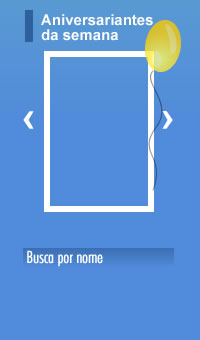
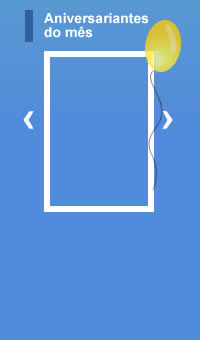
testes

Changed region(s): [[0.12, 0.7059, 0.87, 0.7941], [0.21, 0.0294, 0.78, 0.1176]]

diff --git a/src/media/js/fullcalendar/fullcalendar.min.js b/src/media/js/fullcalendar/fullcalendar.min.js
@@ -105,7 +105,7 @@ g("unselectCancel");if(q)if(m(Q.target).parents(q).length)return;b(Q)})}function
 t,y=-1,S=-1;for(t=0;t<l;t++)if(g>=e[t][0]&&g<e[t][1]){y=t;break}for(t=0;t<j;t++)if(f>=d[t][0]&&f<d[t][1]){S=t;break}return y>=0&&S>=0?{row:y,col:S}:null};b.rect=function(f,g,l,j,t){t=t.offset();return{top:e[f][0]-t.top,left:d[g][0]-t.left,width:d[j][1]-d[g][0],height:e[l][1]-e[f][0]}}}function Ob(a){function b(j){j=a.cell(j.pageX,j.pageY);if(!j!=!l||j&&(j.row!=l.row||j.col!=l.col)){if(j){g||(g=j);f(j,g,j.row-g.row,j.col-g.col)}else f(j,g);l=j}}var e=this,d,f,g,l;e.start=function(j,t,y){f=j;g=l=null;
 a.build();b(t);d=y||"mousemove";m(document).bind(d,b)};e.stop=function(){m(document).unbind(d,b);return l}}function Pb(a){function b(l){return d[l]=d[l]||a(l)}var e=this,d={},f={},g={};e.left=function(l){return f[l]=f[l]===oa?b(l).position().left:f[l]};e.right=function(l){return g[l]=g[l]===oa?e.left(l)+b(l).width():g[l]};e.clear=function(){d={};f={};g={}}}var Ya={defaultView:"month",aspectRatio:1.35,header:{left:"title",center:"",right:"today prev,next"},weekends:true,allDayDefault:true,ignoreTimezone:true,
 lazyFetching:true,startParam:"start",endParam:"end",titleFormat:{month:"MMMM yyyy",week:"MMM d[ yyyy]{ '&#8212;'[ MMM] d yyyy}",day:"dddd, MMM d, yyyy"},columnFormat:{month:"ddd",week:"ddd M/d",day:"dddd M/d"},timeFormat:{"":"h(:mm)t"},isRTL:false,firstDay:0,monthNames:["Janeiro","Fevereiro","Março","Abril","Maio","Junho","Julio","Agosto","Setembro","Outubro","Novembro","Dezembro"],monthNamesShort:["Jan","Fev","Mar","Abr","Mai","Jun","Jul","Ago","Set","Out","Nov","Dez"],dayNames:["Domingo","Segunda","Terça",
-"Quarta","Quinta","Sexta","Sabado"],dayNamesShort:["Dom","Seg","Ter","Qua","Qui","Sex","Sab"],buttonText:{prev:"&nbsp;&#9668;&nbsp;",next:"&nbsp;&#9658;&nbsp;",prevYear:"&nbsp;&lt;&lt;&nbsp;",nextYear:"&nbsp;&gt;&gt;&nbsp;",today:"Hoje",month:"Mês",week:"Semana",day:"day"},theme:false,buttonIcons:{prev:"circle-triangle-w",next:"circle-triangle-e"},unselectAuto:true,dropAccept:"*"},xc={header:{left:"next,prev today",center:"",right:"title"},buttonText:{prev:"&nbsp;&#9658;&nbsp;",next:"&nbsp;&#9668;&nbsp;",
+"Quarta","Quinta","Sexta","Sabado"],dayNamesShort:["Dom","Seg","Ter","Qua","Qui","Sex","Sab"],buttonText:{prev:"&nbsp;&#9668;&nbsp;",next:"&nbsp;&#9658;&nbsp;",prevYear:"&nbsp;&lt;&lt;&nbsp;",nextYear:"&nbsp;&gt;&gt;&nbsp;",today:"Hoje",month:"Mês",week:"Semana",day:"Dia"},theme:false,buttonIcons:{prev:"circle-triangle-w",next:"circle-triangle-e"},unselectAuto:true,dropAccept:"*"},xc={header:{left:"next,prev today",center:"",right:"title"},buttonText:{prev:"&nbsp;&#9658;&nbsp;",next:"&nbsp;&#9668;&nbsp;",
 prevYear:"&nbsp;&gt;&gt;&nbsp;",nextYear:"&nbsp;&lt;&lt;&nbsp;"},buttonIcons:{prev:"circle-triangle-e",next:"circle-triangle-w"}},Aa=m.fullCalendar={version:"1.5.1"},Ja=Aa.views={};m.fn.fullCalendar=function(a){if(typeof a=="string"){var b=Array.prototype.slice.call(arguments,1),e;this.each(function(){var f=m.data(this,"fullCalendar");if(f&&m.isFunction(f[a])){f=f[a].apply(f,b);if(e===oa)e=f;a=="destroy"&&m.removeData(this,"fullCalendar")}});if(e!==oa)return e;return this}var d=a.eventSources||[];
 delete a.eventSources;if(a.events){d.push(a.events);delete a.events}a=m.extend(true,{},Ya,a.isRTL||a.isRTL===oa&&Ya.isRTL?xc:{},a);this.each(function(f,g){f=m(g);g=new Yb(f,a,d);f.data("fullCalendar",g);g.render()});return this};Aa.sourceNormalizers=[];Aa.sourceFetchers=[];var ac={dataType:"json",cache:false},bc=1;Aa.addDays=ba;Aa.cloneDate=N;Aa.parseDate=kb;Aa.parseISO8601=Bb;Aa.parseTime=mb;Aa.formatDate=Oa;Aa.formatDates=ib;var lc=["sun","mon","tue","wed","thu","fri","sat"],Ab=864E5,cc=36E5,wc=
 6E4,dc={s:function(a){return a.getSeconds()},ss:function(a){return Pa(a.getSeconds())},m:function(a){return a.getMinutes()},mm:function(a){return Pa(a.getMinutes())},h:function(a){return a.getHours()%12||12},hh:function(a){return Pa(a.getHours()%12||12)},H:function(a){return a.getHours()},HH:function(a){return Pa(a.getHours())},d:function(a){return a.getDate()},dd:function(a){return Pa(a.getDate())},ddd:function(a,b){return b.dayNamesShort[a.getDay()]},dddd:function(a,b){return b.dayNames[a.getDay()]},

diff --git a/src/social/templates/album.html b/src/social/templates/album.html
@@ -11,8 +11,9 @@
 
 {%block conteudo%}
 
-<<<<<<< HEAD
 <div id="conteudo_geral">
+
+
 	<h2>Album</h2>
 	<div class="aux_form">
         <a href="/perfil/perfil/"><span class="ui-icon ui-icon-person"></span>Perfil</a>
@@ -20,25 +21,9 @@
         <a href="/perfil/contato/"><span class="ui-icon ui-icon-note"></span>Contatos</a>
         <a href="/perfil/redes/" ><span class="ui-icon ui-icon-refresh"></span>Redes Sociais</a>
     </div>
-	<div id="formperfil">
-		<form method="POST" enctype="multipart/form-data">
-			 {% if formalbum %}{{formalbum.as_table}}{% endif %}
-			 
-			 <input type="submit" value="Savar alterações" ></input>
-			
-		</form>
-=======
-<div id="conteudo_interno">
-	<h3>Album</h3>
-	{%if not perfil%}
-	<div class="ui-state-error ui-corner-all" style="padding: 0 .7em;"> 
-					<p><span class="ui-icon ui-icon-alert" style="float: left; margin-right: .3em;"></span> 
-					<strong>Alerta:</strong> {{alerta}}.</p>
->>>>>>> bad946f8a128e757bb29d0c6c73fa9e203ba9eeb
-	</div>
-	{% endif %}
+
 	
-	{% if perfil %}
+
 	    <div id="formperfil">
 		    <form method="POST" enctype="multipart/form-data">
 			     {% if formalbum %}{{formalbum.as_table}}{% endif %}
@@ -47,7 +32,8 @@
 			
 		    </form>
 	    </div>
-	{% endif %}
+
+
 	
 {% if list_fotos  %}
     

diff --git a/src/media/css/layout.css b/src/media/css/layout.css
@@ -465,12 +465,15 @@ ul.eventos_lista li span{font-weight: bold}
 
 /*  ANIVERSARIANTE */
 
-#aniversariante{position:relative;background:url("../images_portal/aniversariantes.jpg");width:200px;height:340px}
+#aniversariante{position:relative;background:url("../images_portal/aniversariantes.jpg");width:200px;height:270px}
 .aniversariante_foto{height:150px;width:100px;background:#333;position:absolute;top:56px;left:49px }
-.rodape_foto{position:absolute;top:174px;left:24px;background:url("../images_portal/corte_aniversariante.png");height:68px;width:151px}
+.rodape_foto{position:absolute;top:174px;left:24px;background:url("../images_portal/corte_aniversariante.png");height:68px;width:151px;z-index:0}
 
-.aniversariante_nome{position:absolute;top:196px;left:24px;height:68px;width:151px; color:#fff}
+.aniversariante_nome{position:absolute;top:196px;left:24px;height:68px;width:151px; color:#fff; z-index:1}
 
-.aniversariante_data{position:absolute;top:213px;left:24px;height:68px;width:151px; color:#fff}
+.aniversariante_data{position:absolute;top:213px;left:24px;height:68px;width:151px; color:#fff;z-index:2}
+
+.niver_left{position:absolute;top:112px;left:0px;height:10px;width:60px;}
+.niver_rigth{position:absolute;top:112px;left:140px;height:10px;width:60px;}
 
 

diff --git a/src/templates/graos_index/aniversariantes.html b/src/templates/graos_index/aniversariantes.html
@@ -3,26 +3,21 @@
 
 <div id="aniversariante">
 {% for niver in aniversariantes %}
-    <div class="aniversariante_foto">
-        
-        <img src="{{MEDIA_URL}}{{niver.foto}}" >      
-        
-    </div>
-     <div class="rodape_foto">
-        
-        </div>    
-        
-             <div class="aniversariante_nome">
-             
-             {{niver.nome}}
-        
-        </div>    
-        
-             <div class="aniversariante_data">
-             {{niver.datanascimento|date:"d / M"}}
-        
-        </div> 
-{% endfor %}    
+<div id="lista_{{forloop.counter}}" style="display:none" class="lista">
+        <div class="aniversariante_foto "> <img src="{{MEDIA_URL}}{{niver.foto}}" ></div>
+
+        <div class="aniversariante_nome">{{niver.nome}}</div>    
+
+        <div class="aniversariante_data">{{niver.datanascimento|date:"d / M"}} </div>
 </div>
+             
+{% endfor %}   
+        <a class="niver_left" onclick="noticia_destaque_anterior()" id="ctr_prev">  </a>
+        <a class="niver_rigth" onclick="noticia_destaque_proximo()" id="ctr_next">  </a>
+        <div class="rodape_foto"> </div> 
+      
+</div>
+
+
 
 

diff --git a/src/media/js/paginas_internas/index.js b/src/media/js/paginas_internas/index.js
@@ -156,3 +156,43 @@ function noticia_destaque_anterior(){
 }
 
 
+
+
+
+/**
+ * @ aniversariante
+ **/
+var noticia_destaque = $(".lista").size();
+var noticia_destaque_id = 1;
+$('#lista_'+noticia_destaque_id).fadeIn();
+
+if(noticia_destaque > 1){
+    var interval_noticia = setInterval("noticia_destaque_proximo()",10000);
+}else{
+    $("#ctr_prev").hide();
+    $("#ctr_next").hide();
+}
+
+function noticia_destaque_proximo(){
+	$('#lista_'+noticia_destaque_id).fadeOut();
+	
+	if (noticia_destaque_id >= noticia_destaque){
+		noticia_destaque_id = 1;
+	}else{
+		noticia_destaque_id = noticia_destaque_id+1;
+	}
+	$('#lista_'+noticia_destaque_id).fadeIn();
+}
+
+function noticia_destaque_anterior(){
+	$('#lista_'+noticia_destaque_id).fadeOut();
+	
+	if (noticia_destaque_id < noticia_destaque){
+		noticia_destaque_id = noticia_destaque;
+	}else{
+		noticia_destaque_id = noticia_destaque_id-1;
+	}
+	$('#lista_'+noticia_destaque_id).fadeIn();
+}
+
+

diff --git a/src/social/templates/meuperfil.html b/src/social/templates/meuperfil.html
@@ -114,10 +114,6 @@
         </div>
         
         
- 
-        
-        
-        
         
         {% if list_fotos  %}
     

diff --git a/src/social/views.py b/src/social/views.py
@@ -73,29 +73,17 @@ def social(request):
     return render_to_response('redes.html', locals(), context_instance=RequestContext(request))
     
 def album_foto(request):
-<<<<<<< HEAD
-    perfil = Perfil.objects.filter(user = request.session['username'])
-    list_fotos = Album.objects.filter(user=request.session['username'])
-      
-    
-    formalbum = AlbumForm(initial = {"user" : request.session['username']})
- 
-    if request.method == "POST":
-=======
     
     perfil_album = Perfil.objects.filter(user = request.session['username'])
     
     try:
-       
->>>>>>> bad946f8a128e757bb29d0c6c73fa9e203ba9eeb
-        
-        list_fotos = Album.objects.filter(perfil=perfil_album[0])
+
+        list_fotos = Album.objects.filter(user=request.session['username'])
           
         #formalbum = AlbumForm()
-        formalbum = AlbumForm(initial = {"perfil":request.session['username']})
+        formalbum = AlbumForm(initial = {"user":request.session['username']})
      
         if request.method == "POST":
-            
             formalbum = AlbumForm(request.POST,request.FILES)
             formalbum.is_valid()
             formalbum.save()
@@ -128,7 +116,7 @@ def meuperfil(request, user_id):
     profissional_list = Profissional.objects.filter(user = user_id)
     contato_list = Contato.objects.filter(user = user_id)
     redes_list = RedeSocial.objects.filter(user = user_id)
-    list_fotos = Album.objects.filter(user=request.session['username'])
+    list_fotos = Album.objects.filter(user=user_id)
 
     return render_to_response('meuperfil.html', locals(), context_instance=RequestContext(request))
     

diff --git a/src/processors.py b/src/processors.py
@@ -70,8 +70,9 @@ def publicidade(request):
 
 def enquete(request):
     enquete = Enquete.objects.filter(boo_ativo = True )
-    ultima_enquete = enquete[0]
-    enquete_esolhas = Escolha.objects.filter(enquete=ultima_enquete)
+    if enquete:
+        ultima_enquete = enquete[0]
+        enquete_esolhas = Escolha.objects.filter(enquete=ultima_enquete)
     
     return locals()
 
